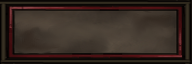
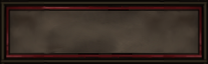
fixing gui on index some more..

diff --git a/index.php b/index.php
@@ -1,28 +1,28 @@
 	<div id="gui" style="min-height:650px; min-width:950px; height:100%; width:100%; display:table;">
 	
-		<div id="gui_left" style="position:relative; background: url(media/gui/background.png); border:1px solid black; display:table-cell; height:100%; width:208px;">
+		<div id="gui_left" style="position:relative; background: url(media/gui/background_up.png); display:table-cell; height:100%; width:200px;">
         
-            <div id="profiles" style="position:absolute; top:0; bottom:0; margin-bottom:64px; width:100%;">
+            <div id="profiles" style="position:absolute; top:0; bottom:0; margin-bottom:64px; width:100%; border:1px solid black;">
             
-                <div id="inventory" style="background: url(media/gui/background.png); width:100%; height:8px">
+                <div id="inventory" style="background: url(media/gui/background.png); width:100%; height:4px">
                 </div>
-                <div id="profiles" style="background: url(media/gui/profile.png) no-repeat; width:100%; height:200px; margin-left:8px; ">
+                <div id="profiles" style="background: url(media/gui/profile.png) no-repeat; width:100%; height:200px; margin-left:4px; ">
                 </div>
                 <div id="inventory" style="background: url(media/gui/background.png); width:100%; height:8px; display:none;">
                 </div>
-                <div id="profiles" style="background: url(media/gui/profile.png) no-repeat; width:100%; height:200px; margin-left:8px; display:none;">
+                <div id="profiles" style="background: url(media/gui/profile.png) no-repeat; width:100%; height:200px; margin-left:4px; display:none;">
                 </div>
                         
 			</div>
 
-			<div id="options" style="background:url(media/gui/buttons.png); position:absolute; bottom:0px; height:64px; width:100%;"><br><b>&nbsp;&nbsp;&nbsp;&nbsp;&nbsp;&nbsp;&nbsp;&nbsp;OPTIONS</b>
+			<div id="options" style="background:url(media/gui/buttons.png); background-size: 100% 100%; position:absolute; bottom:0px; cursor:pointer; height:64px; width:100%; text-align:center; line-height:64px;"><b>OPTIONS</b>
 			</div>
             
 		</div>
 
 		<div id="gui_center" style="position:relative; display:table-cell; height:100%;">
 
-			<div id="container" style="background:url(media/gui/3dview.png); position:absolute; top:0; bottom:0; margin-bottom:64px; width:100%;">
+			<div id="container" style="background:url(media/gui/3dview.png); position:absolute; top:0; bottom:0; margin-bottom:64px; width:100%; border:1px solid black;">
 			</div>
 
 			<div id="console" style="background:url(media/gui/background.png); position:absolute; bottom:0px; color:yellow; height:64px; width:100%;">
@@ -34,7 +34,7 @@
 			</div>
 		</div>
         
-		<div id="gui_right" style="position:relative; display:table-cell; background: url(media/gui/background.png); border:1px solid black; width:208px; height:100%;">
+		<div id="gui_right" style="position:relative; display:table-cell; background: url(media/gui/background_up.png); border:1px solid black; width:208px; height:100%;">
         
             <div id="inventory" style="background: url(media/gui/background.png); width:192px; height:8px">
 			</div>
@@ -51,7 +51,11 @@
             <div id="inventory" style="background: url(media/gui/background.png); border:1px solid red; width:192px; height:8px; display:none;">
 			</div>
                 
-			<div id="map" style="background:url(media/gui/slot1.png); position:absolute; bottom:0px; height:64px; width:100%;">
+			<div id="map" style="background:url(media/gui/background.png); position:absolute; bottom:0px; height:64px; width:100%;">
+                <div id="special_slot1" style="float:left; margin-right:2px; margin-left:4px; background: url(media/gui/slot1.png) no-repeat; width:64px; height:64px"></div>
+                <div id="special_slot2" style="float:left; margin-right:2px; margin-left:2px; background: url(media/gui/slot1.png) no-repeat; width:64px; height:64px"></div>
+                <div id="special_slot3" style="float:left; margin-right:4px; margin-left:2px; background: url(media/gui/slot1.png) no-repeat; width:64px; height:64px"></div>
+			</div>
 			</div>
 		</div>
 		
